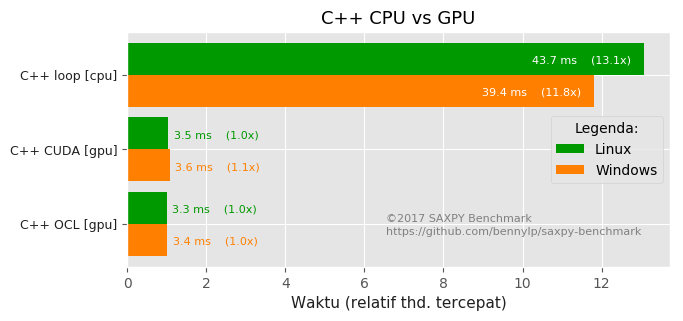
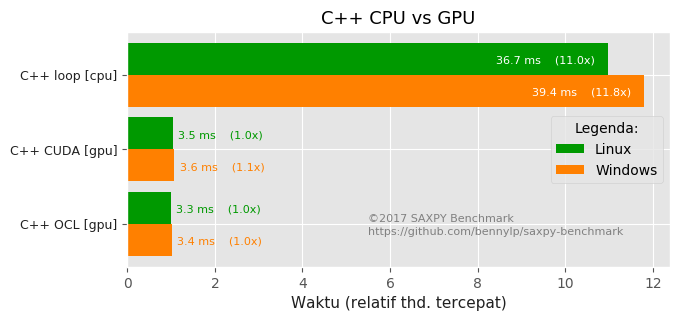
Added Julia on Linux plus additional c++ optimization

diff --git a/results/README.md b/results/README.md
@@ -67,12 +67,14 @@ Submitted by Benny Prijono on 2017-11-21
 | R [cpu] | 151.504 | 0.774 | 45.34x |
 | C++ OMP [cpu] | 144.715 | 14.128 | 43.31x |
 | Py TensorFlow [cpu] | 143.582 | 0.479 | 42.97x |
+| Julia (vec) [cpu] | 121.649 | 0.466 | 36.41x |
 | C++ OCL [cpu] | 80.856 | 0.061 | 24.20x |
 | PyOCL [gpu] | 77.332 | 0.257 | 23.14x |
 | Py Numpy [cpu] | 77.161 | 0.378 | 23.09x |
-| C++ loop [cpu] | 43.684 | 0.140 | 13.07x |
 | Java loop [cpu] | 42.703 | 0.100 | 12.78x |
+| Julia (loop) [cpu] | 41.343 | 0.126 | 12.37x |
 | PyOCL [cpu] | 39.846 | 0.598 | 11.93x |
+| C++ loop [cpu] | 36.676 | 0.217 | 10.98x |
 | Py TensorFlow [gpu] | 29.887 | 0.068 | 8.94x |
 | MXNet [gpu] | 12.843 | 0.043 | 3.84x |
 | C++ CUDA [gpu] | 3.467 | 0.022 | 1.04x |
@@ -92,6 +94,7 @@ Submitted by Benny Prijono on 2017-11-21
 - **outlier "R [cpu]" is removed from the chart because it is 45x slower**
 - **outlier "C++ OMP [cpu]" is removed from the chart because it is 43x slower**
 - **outlier "Py TensorFlow [cpu]" is removed from the chart because it is 42x slower**
+- **outlier "Julia (vec) [cpu]" is removed from the chart because it is 36x slower**
 - **outlier "C++ OCL [cpu]" is removed from the chart because it is 24x slower**
 - **outlier "PyOCL [gpu]" is removed from the chart because it is 23x slower**
 - **outlier "Py Numpy [cpu]" is removed from the chart because it is 23x slower**
